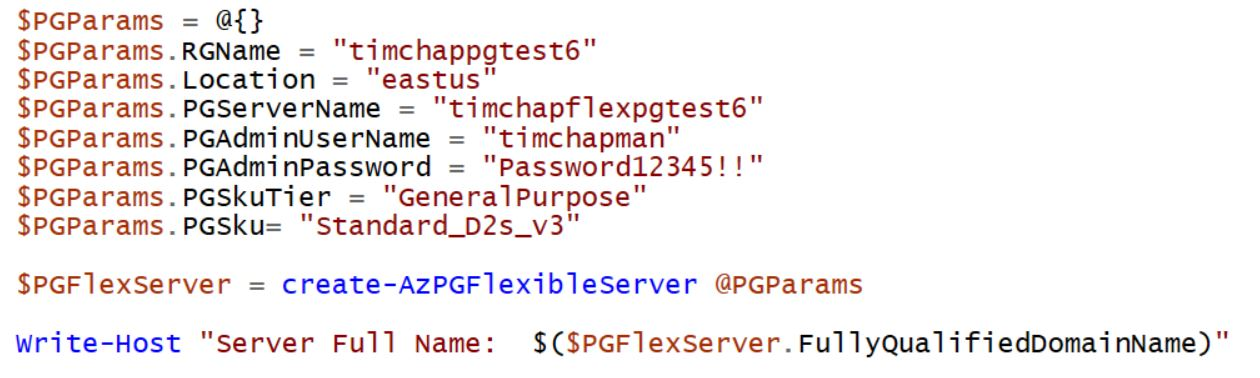
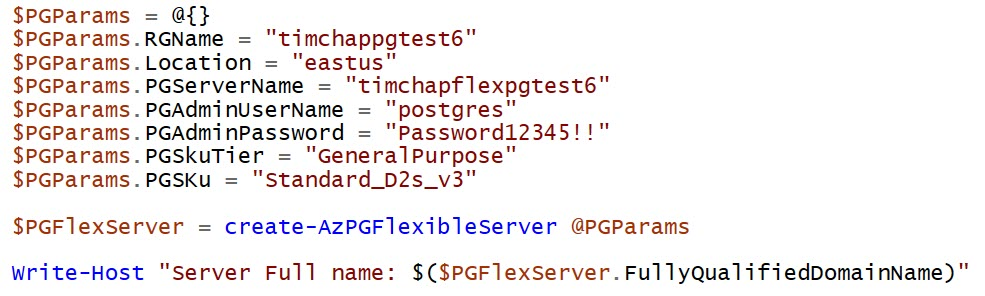
Updates for user name postgres.

Changed region(s): [[0.0, 0.0, 0.6396, 0.6385], [0.0, 0.8514, 1.0, 0.973], [0.0, 0.6993, 0.7005, 0.7905]]

diff --git a/README.md b/README.md
@@ -13,7 +13,7 @@ The output will look similar to this:
 2.  Navigate to where PGAdmin is installed (the location of D:\Program Files\pgAdmin 4\v5\runtime on this test machine) and open a Command Prompt.
 3.  Execute the following command to connect to the PostgreSQL Flexible Server.  Be sure to use the Fully Qualified Name of your server and to enter your Password when prompted.  
 ```
-   psql.exe "host=timchapflexpgtest6.postgres.database.azure.com port=5432 dbname=postgres user=timchapman"
+   psql.exe "host=timchapflexpgtest6.postgres.database.azure.com port=5432 dbname=postgres user=postgres"
    ```
 The output will look similar to the following:  
 ![Server Login.](media/2a-PSQLLogin.JPG 'PSQL Login')
@@ -27,7 +27,7 @@ Which will have output similar to the following:
 ## 3.  Restore the AdventureWorks database on the Azure Database for PostgreSQL Flexible Server
 1.  Execute the pg_restore below.  Be sure to use the Fully Qualified Name of your server and the location of where you've cloned this repo.
 ```
-pg_restore -h timchapflexpgtest6.postgres.database.azure.com -U timchapman  -d adventureworks D:/GitHub/postgresql-adventureworks/AdventureWorksPG.gz 
+pg_restore -h timchapflexpgtest6.postgres.database.azure.com -U postgres  -d adventureworks D:/GitHub/postgresql-adventureworks/AdventureWorksPG.gz 
 ```
 The output should look similar to the following.  **Note:  This script returns 2 Azure extension related errors.  These can be safely ignored.**
 ![Restore Database.](media/3a-RestoreDatabase.JPG 'Restore Database')
